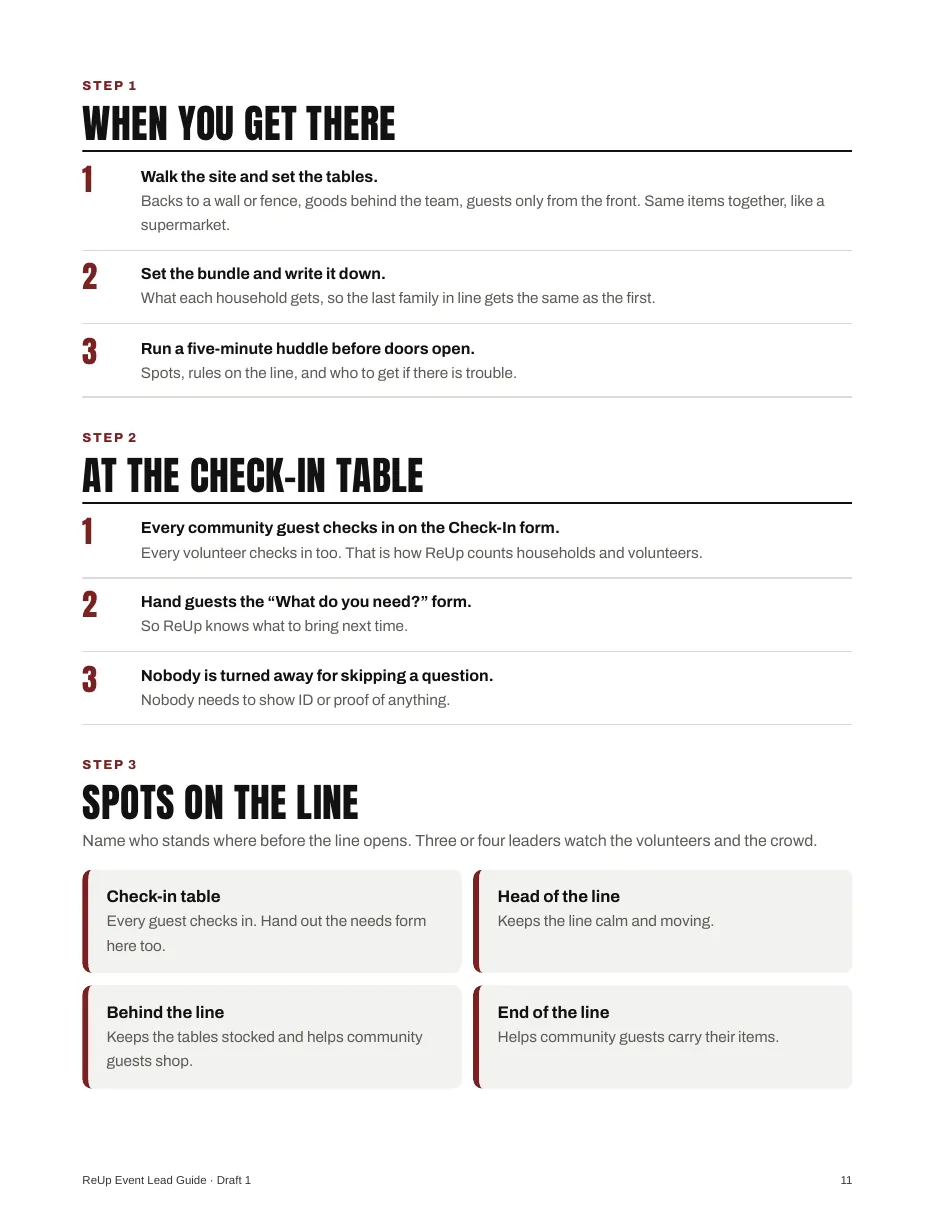
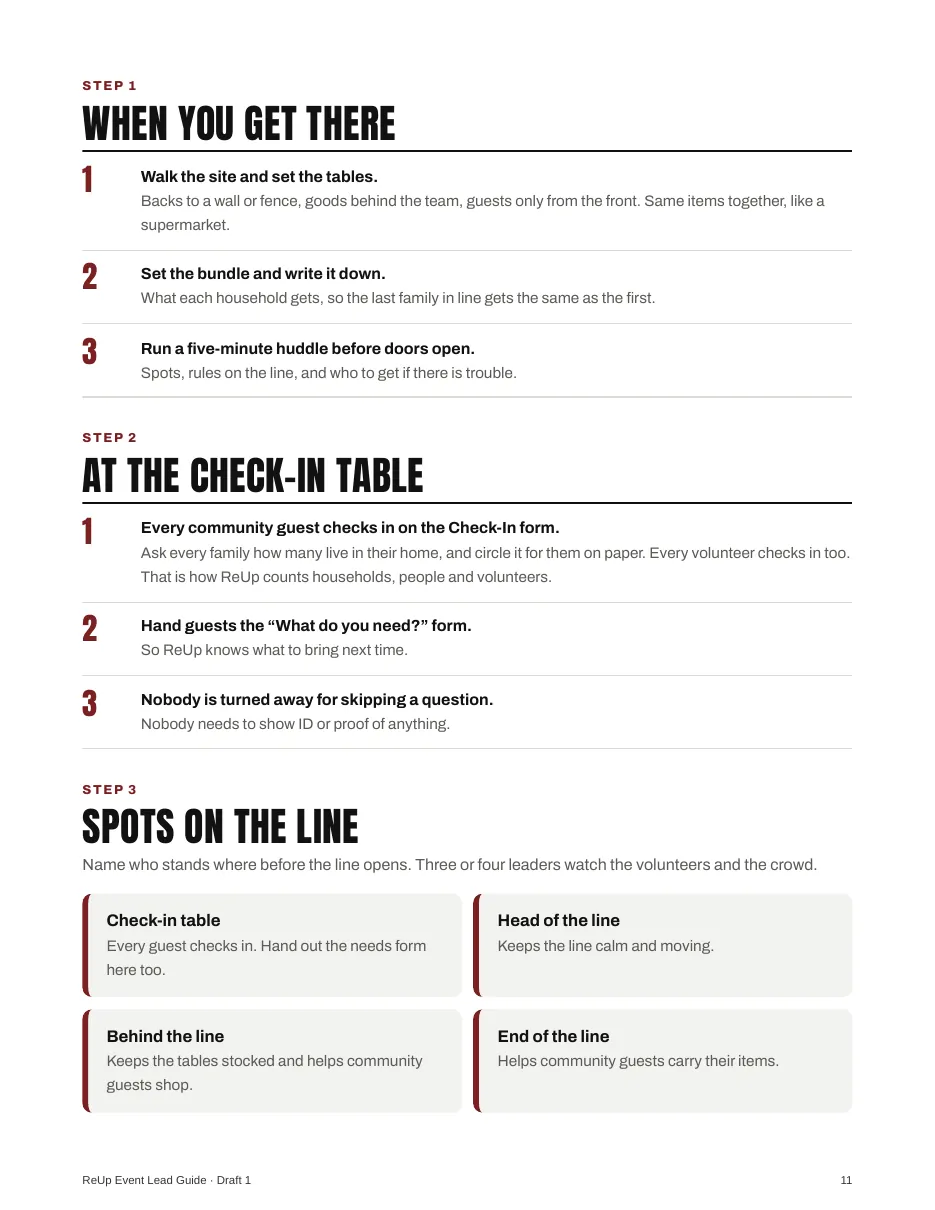
Event day and Event Lead Guide: ask every family how many live in their home
Claude-Session: https://claude.ai/code/session_01SvLhZQ4QvgjXq8pbZe5QGV

diff --git a/hub/index.html b/hub/index.html
@@ -1135,7 +1135,7 @@ body:not(.ready) main, body:not(.ready) .tabs{visibility:hidden}
       <div class="tiles" id="edforms"></div>
       <h2>Spots on the line</h2>
       <div class="spots">
-        <div class="spot"><b>Check-in table</b><span>Every guest checks in. Hand out the needs form here too.</span></div>
+        <div class="spot"><b>Check-in table</b><span>Every guest checks in. Ask each family how many live in their home. Hand out the needs form here too.</span></div>
         <div class="spot"><b>Head of the line</b><span>Keeps the line calm and moving.</span></div>
         <div class="spot"><b>Behind the line</b><span>Hands goods to each guest.</span></div>
         <div class="spot"><b>End of the line</b><span>Checks with each community guest that they received the number of items we told them. Manages crowd control, and makes sure everyone comes in at the front of the event, never from the back.</span></div>
@@ -4950,7 +4950,7 @@ function vWireOrient(box) {
 /* Self-update: when a newer Hub is published, open pages switch to it on their own.
    It waits until nothing is saving and no task is open, so no tap or typing is lost. */
 (function () {
-  var BUILD = "20261104012500";
+  var BUILD = "20261104013000";
   function idle() {
     try {
       if (typeof wqRunning !== "undefined" && (wqRunning || (wq && wq.length))) return false;
